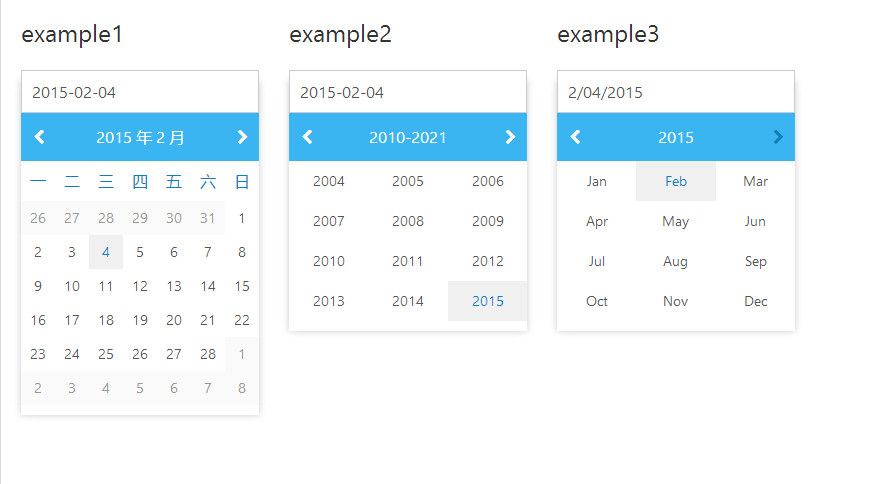
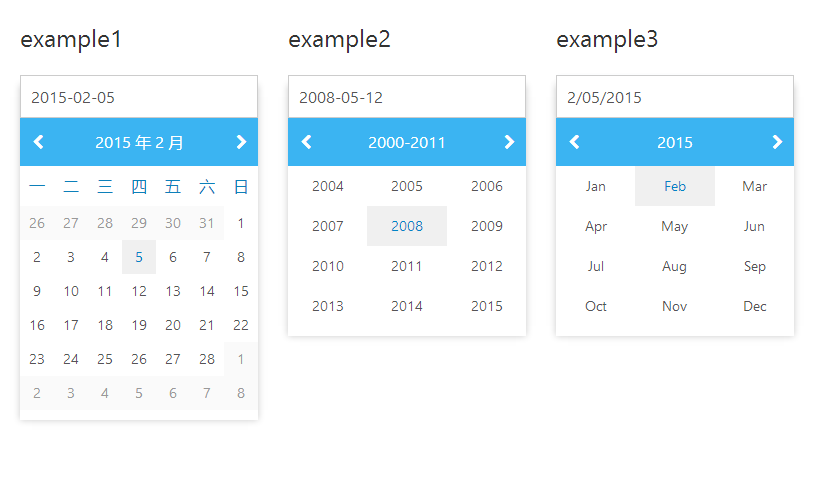
update

diff --git a/react-datepicker/index.html b/react-datepicker/index.html
@@ -49,7 +49,7 @@
 
 			React.render(React.createElement(myDatepicker, {
 				current: test,
-				panel: 2,
+				panel: 3,
 				onSelect: function(date) {
 					console.log(date);
 				}
@@ -68,7 +68,7 @@
 
 			React.render(React.createElement(myDatepicker, {
 				current: null,
-				panel: 1,
+				panel: 2,
 				format: "M/dd/yyyy",
 				lang: "en",
 				onSelect: function(date) {
